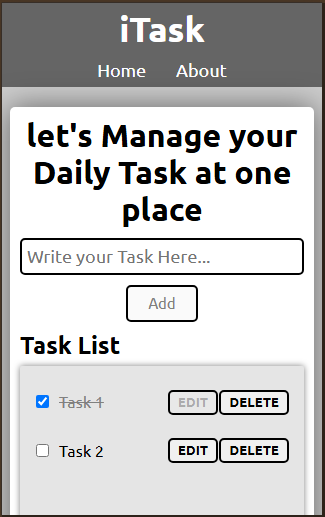
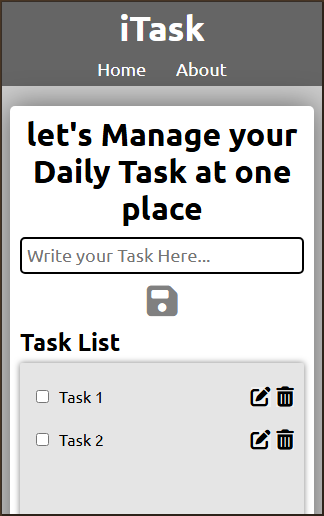
update changes

diff --git a/src/components/main.css b/src/components/main.css
@@ -39,19 +39,23 @@
   font-family: "Ubuntu", sans-serif;
 }
 .saveBtn button {
-  padding: 8px 20px;
+  /* padding: 8px 20px; */
   border: none;
   outline: none;
-  border: 2px solid black;
-  border-radius: 5px;
+  /* border: 2px solid black; */
+  /* border-radius: 5px; */
   transition: 0.2s ease-in-out;
   font-size: 15px;
   font-family: "Ubuntu", sans-serif;
+  background: transparent;
 }
 
 button:hover {
   color: black;
-  background-color: white;
+}
+
+.saveBtn button i{
+  font-size: 35px;
 }
 
 .taskLists {
@@ -93,10 +97,9 @@ button:hover {
 }
 .tskBtn {
   display: flex;
-  gap: 1%;
+  gap: 15%;
 }
-.editBtn button,
-.delBtn button,
+
 .tskLstInp input {
   padding: 3px 8px;
   border: none;
@@ -113,18 +116,23 @@ button:hover {
 }
 .editBtn button,
 .delBtn button {
-  border: 2px solid black;
-  border-radius: 5px;
+  border: none;
+  outline: none;
+}
+.editBtn button i,
+.delBtn button i{
+  background: transparent;
+  font-size: 20px;
   cursor: pointer;
-  text-transform: uppercase;
-  font-weight: bold;
   transition: 0.25s ease-in-out;
+  border: none;
+  outline: none;
 }
 .editBtn button:hover {
-  background-color: rgba(255, 255, 0, 0.8);
+  color: rgba(255, 255, 0, 0.5);
 }
 .delBtn button:hover {
-  background-color: rgba(255, 0, 0, 0.5);
+  color: rgba(255, 0, 0, 0.8);
 }
 
 @media only screen and (max-width: 500px) {

diff --git a/src/components/Main.jsx b/src/components/Main.jsx
@@ -102,7 +102,7 @@ const Main = () => {
                 cursor: input.trim() === "" ? "not-allowed" : "pointer",
               }}
             >
-              Add
+              <i className="fa-solid fa-floppy-disk"></i>{" "}
             </button>
           </div>
         </div>
@@ -144,7 +144,7 @@ const Main = () => {
                           }}
                           disabled={item.isCompleted}
                         >
-                          Edit
+                          <i className="fa-solid fa-pen-to-square"></i>
                         </button>
                       </div>
                       <div className="delBtn">
@@ -153,7 +153,7 @@ const Main = () => {
                             handleDel(e, item.id);
                           }}
                         >
-                          Delete
+                          <i className="fa-solid fa-trash-can"></i>
                         </button>
                       </div>
                     </div>

diff --git a/index.html b/index.html
@@ -11,6 +11,13 @@
       href="https://fonts.googleapis.com/css2?family=Ubuntu:ital,wght@0,300;0,400;0,500;0,700;1,300;1,400;1,500;1,700&display=swap"
       rel="stylesheet"
     />
+    <link
+      rel="stylesheet"
+      href="https://cdnjs.cloudflare.com/ajax/libs/font-awesome/6.7.2/css/all.min.css"
+      integrity="sha512-Evv84Mr4kqVGRNSgIGL/F/aIDqQb7xQ2vcrdIwxfjThSH8CSR7PBEakCr51Ck+w+/U6swU2Im1vVX0SVk9ABhg=="
+      crossorigin="anonymous"
+      referrerpolicy="no-referrer"
+    />
   </head>
   <body>
     <div id="root"></div>
